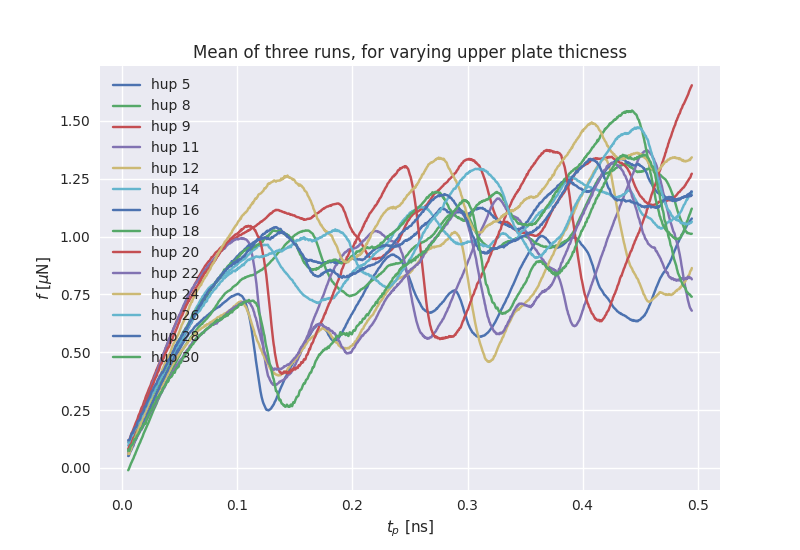
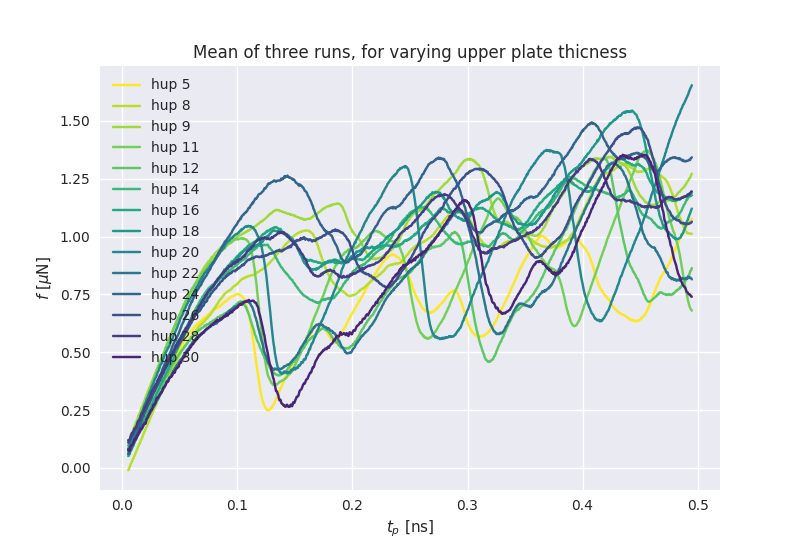
figure update

diff --git a/python/plot/plot_load_curves.py b/python/plot/plot_load_curves.py
@@ -111,10 +111,14 @@ def plot_load_curves_as_funciton_of_top_thiccness():
     template_lc = load_curve_dir + 'load_curves_temp{}_vel{}_force{}_or{}_seed*_errgrid{}_{}.txt'
     template_ms = max_static_dir + 'max_static_temp{}_vel{}_force{}_or{}_seed*_errgrid{}_{}.txt'
     style.use('seaborn') 
+    min_hup = np.min(hup)
+    max_hup = hup[-1]
+
     for i,seed in enumerate(seeds):
         load_curves_all, load_curves = load_load_curves(temp, vel, force, orientation, 
                                                         grid, template_lc,template_ms, seed)
-        plt.plot(load_curves[0,:,0], load_curves[0,:,1], label = f'hup {hup[i]}' )
+        c = plt.cm.viridis((max_hup - hup[i])/(max_hup - min_hup + 0.01))
+        plt.plot(load_curves[0,:,0], load_curves[0,:,1], c=c, label = f'hup {hup[i]}' )
             
 
     plt.xlabel(r"$t_p$ [ns]")
